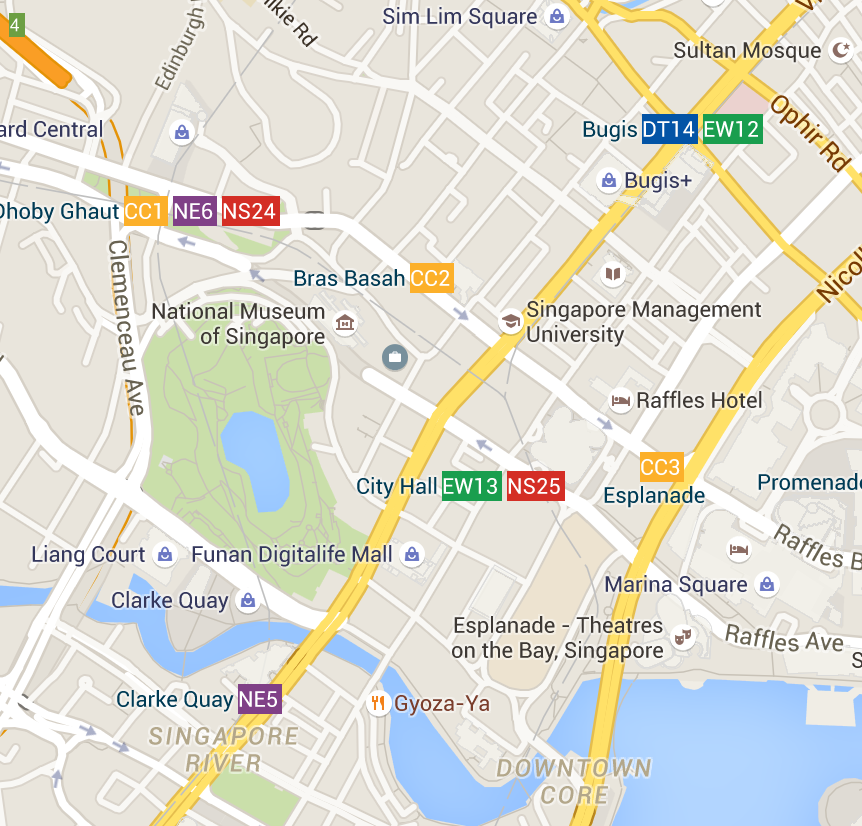
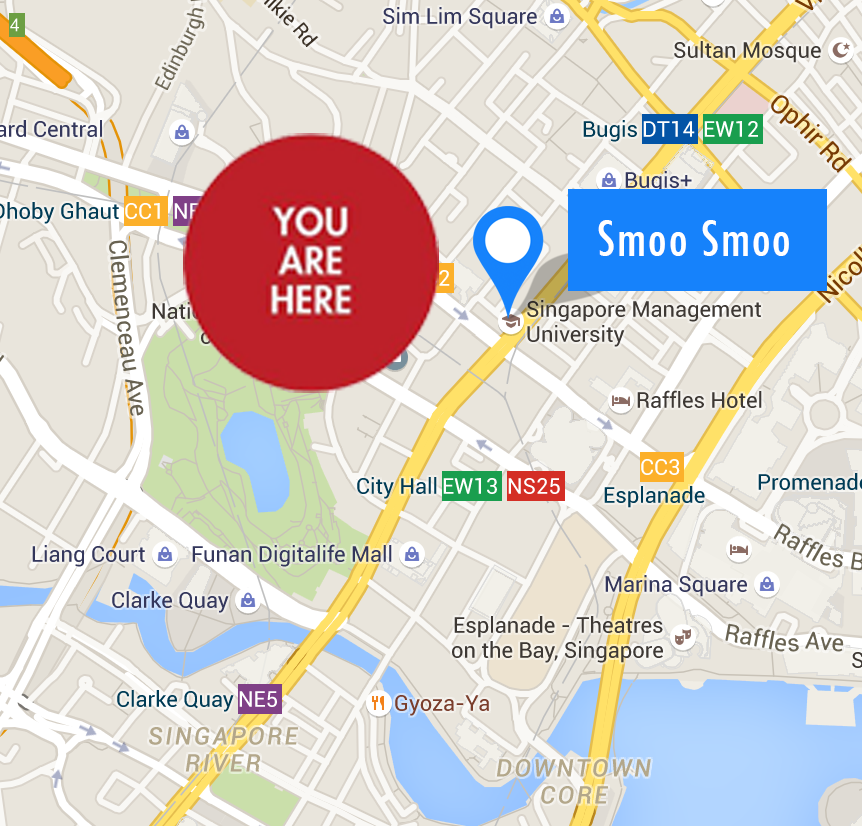
fixed the map issue

Changed region(s): [[0.2111, 0.1513, 0.5128, 0.4843], [0.5429, 0.2119, 0.9652, 0.3935]]

diff --git a/www/js/services.js b/www/js/services.js
@@ -300,7 +300,7 @@ angular.module('starter.services', ['firebase'])
                 nextLevel: 120,
                 rank: 'Smoo-th Bro',
                 display_pic: 'img/smoo.jpg',
-                map: 'img/map-SmooSmoo.jpg'
+                map: 'img/map1.png'
             }
             //{
             //    id: 2,

diff --git a/www/templates/task.detail.html b/www/templates/task.detail.html
@@ -5,6 +5,7 @@
         <div class="content double-padding">
 
             <h4 class="positive">Will you help {{task.bro.name}} out?</h4>
+            {{task.bro.map}}
 
             <p class="text-muted">
                 {{task.task}}
